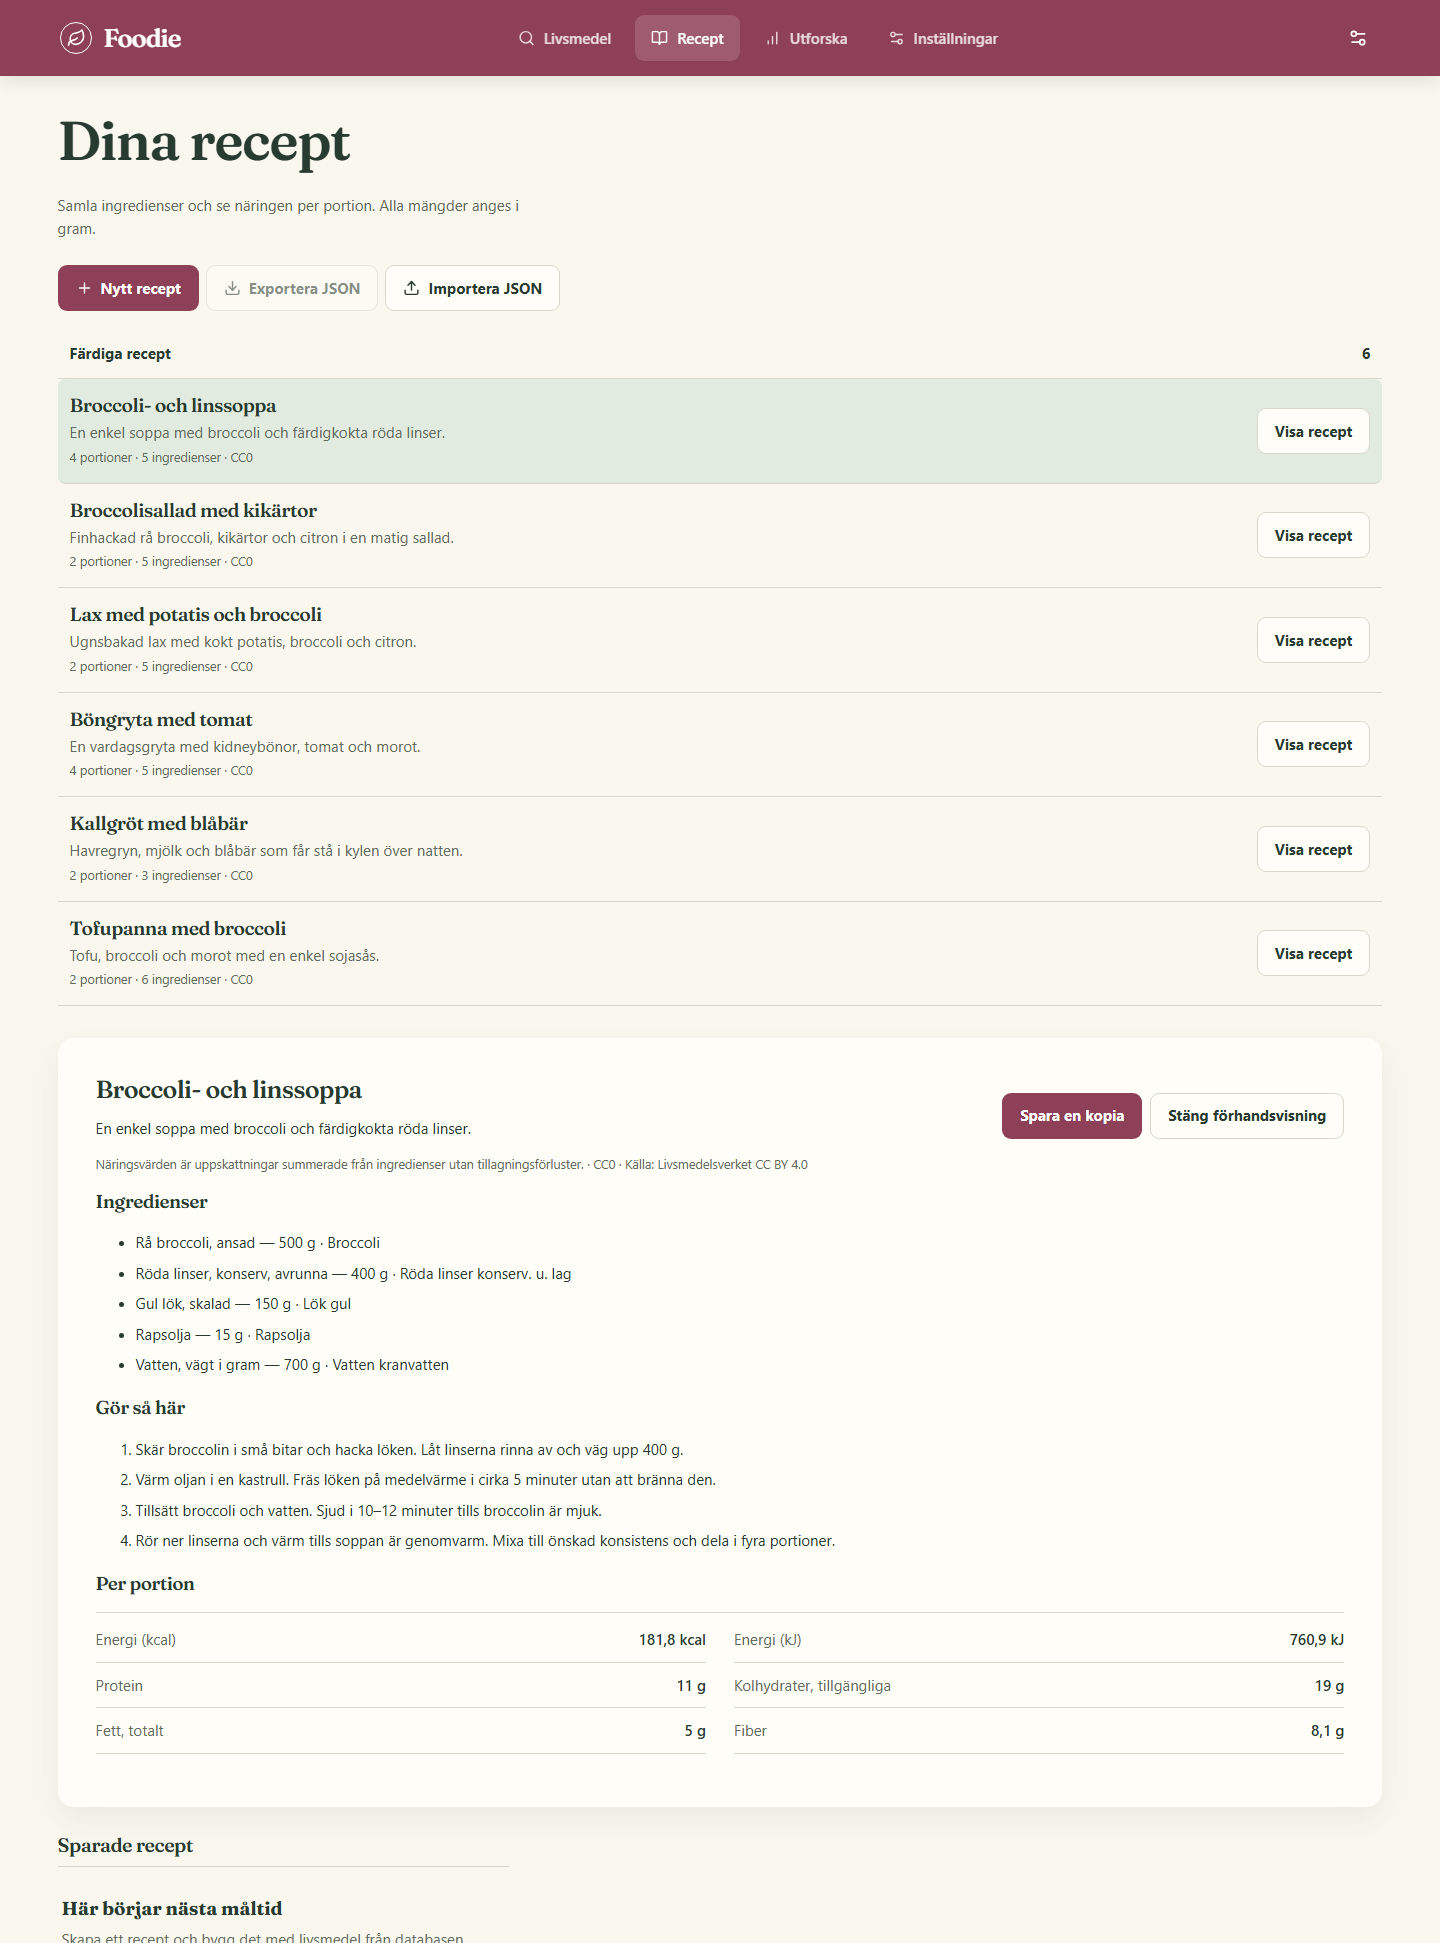
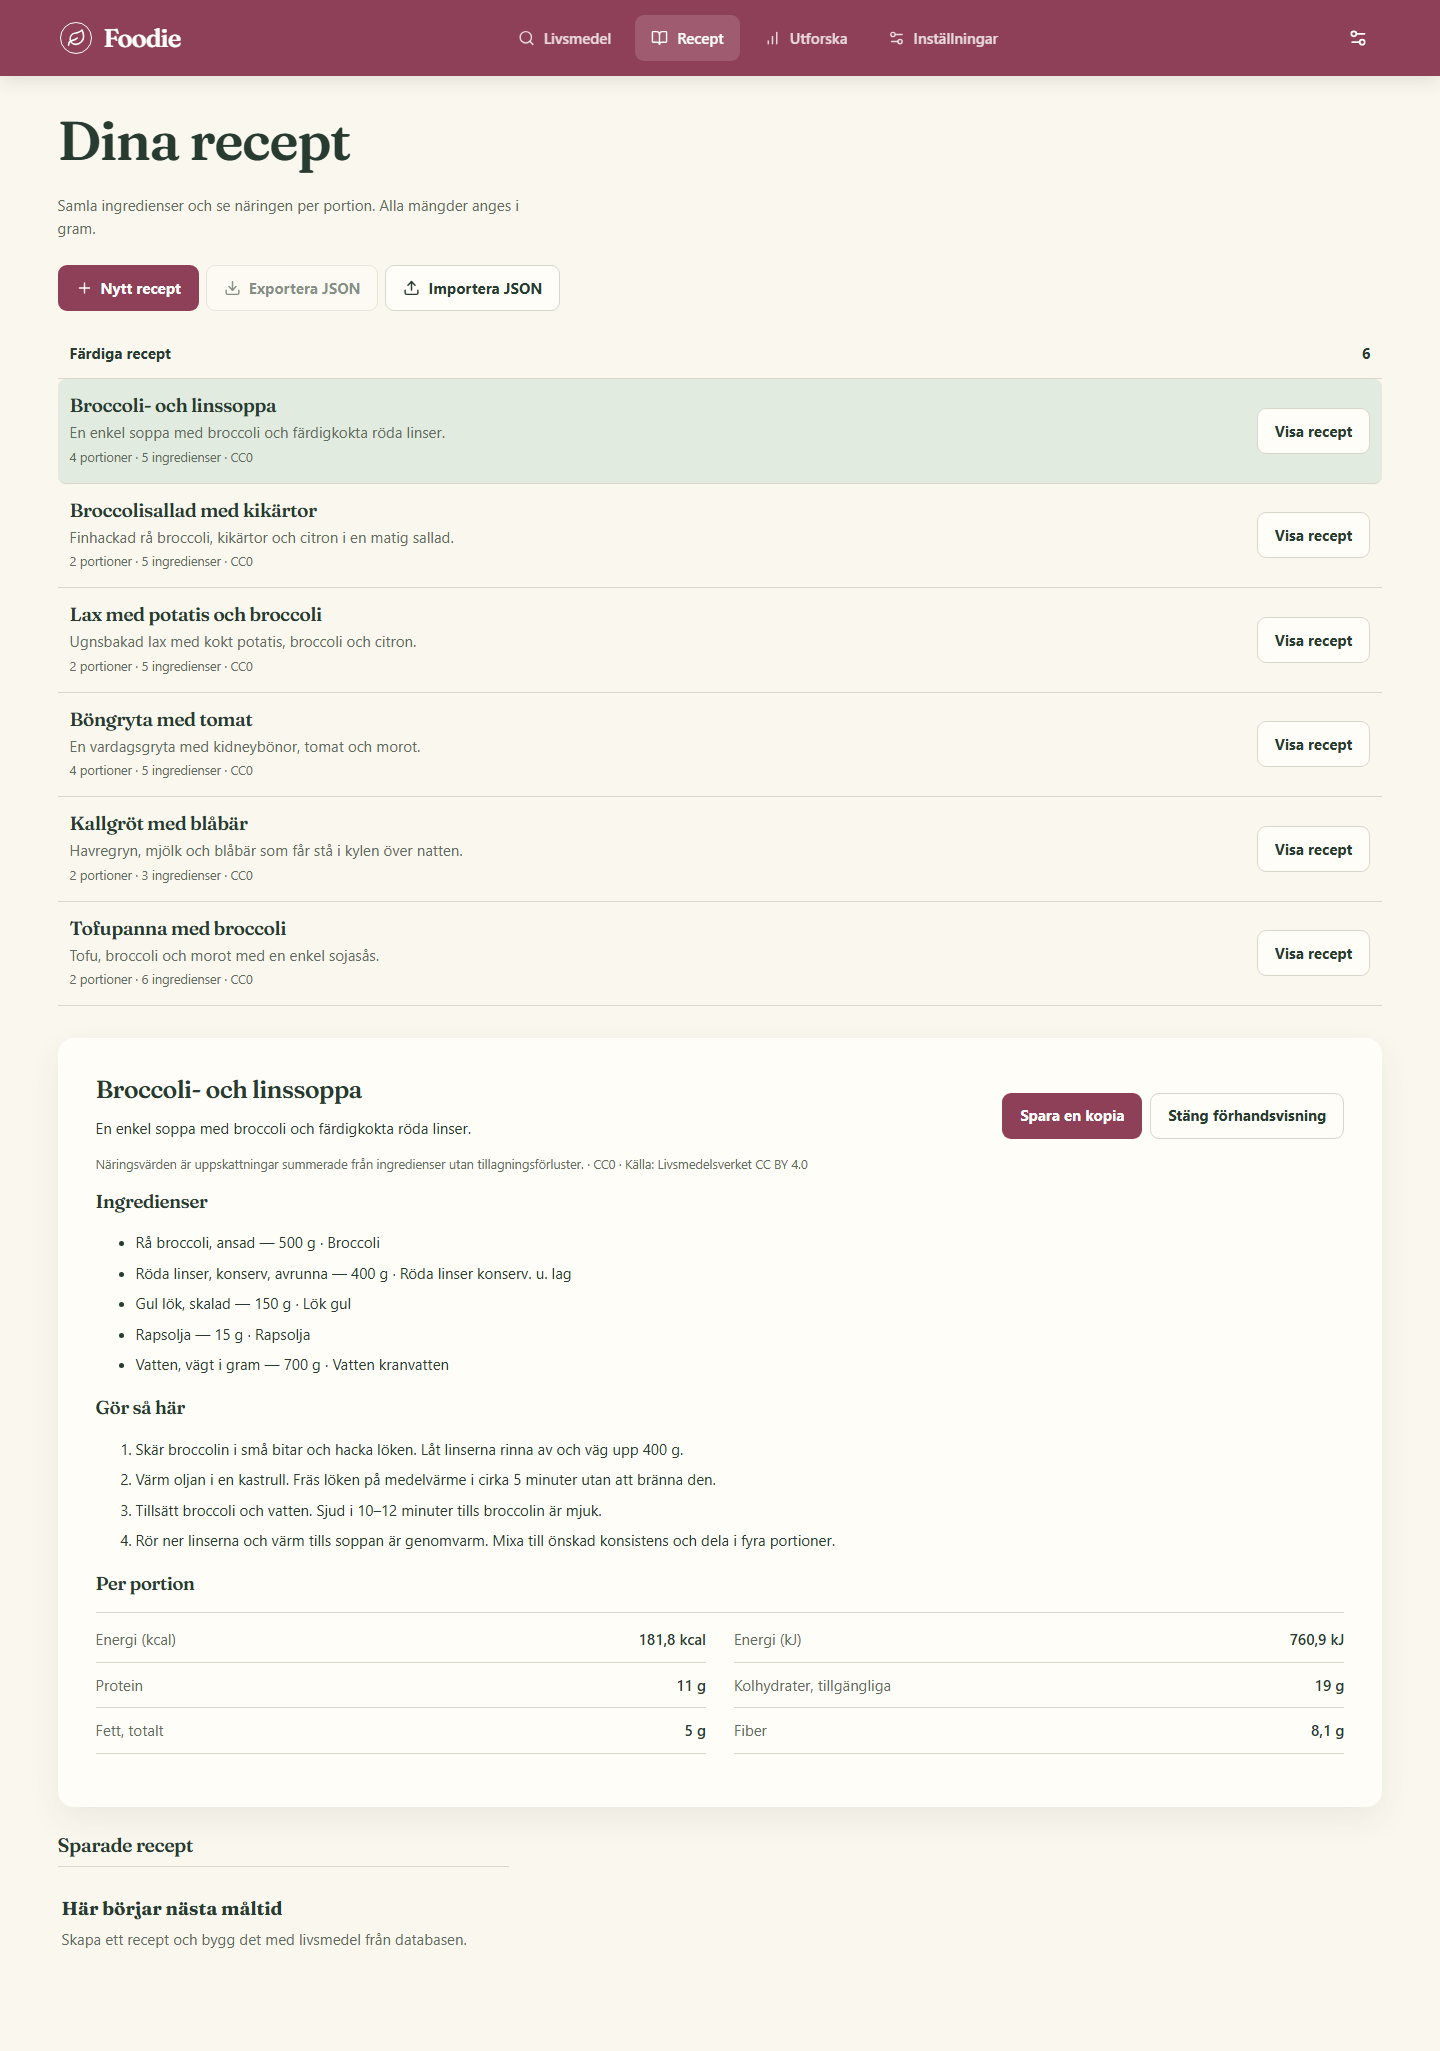
Preserve recipe route when jumping to saved recipes

diff --git a/src/App.tsx b/src/App.tsx
@@ -223,13 +223,13 @@ function Recipes({locale,msg,foods,dictionary,manifest,loadState,onRetry}:{local
   const previewDataUpdate=async(r:Recipe)=>{setBusy(true);setUpdatePreview(null);try{const items=await Promise.all(r.ingredients.map(async ingredient=>{const food=await foodRepository.getFood(ingredient.foodId);if(!food)return {ingredientId:ingredient.id,food:null,changes:[]};const changes=compareFoodData(ingredient.food,food);const newKeys=new Set(food.nutrients.map(n=>n.key));const removed=ingredient.food.nutrients.filter(n=>!newKeys.has(n.key)).map(n=>({key:n.key,before:n.value,after:null}));return {ingredientId:ingredient.id,food,changes:[...changes,...removed]}}));const hasUpdates=items.some(item=>!item.food||item.food.version!==r.ingredients.find(i=>i.id===item.ingredientId)?.food.version||item.changes.length>0);if(!hasUpdates){setNotice(msg('noChanges'));return}setUpdatePreview({recipeId:r.id,items})}catch{setNotice(msg('loadError'))}finally{setBusy(false)}};
   const applyDataUpdate=()=>{if(!updatePreview)return;const r=recipes.find(x=>x.id===updatePreview.recipeId);if(!r)return;const changed=new Map(updatePreview.items.filter(x=>x.food).map(x=>[x.ingredientId,x.food!]));const ingredients=r.ingredients.map(i=>changed.has(i.id)?{...i,food:changed.get(i.id)!}:i);persist({...r,ingredients,snapshotId:updatePreview.items.every(x=>x.food)?manifest?.snapshotId??r.snapshotId:r.snapshotId});setUpdatePreview(null)};
   return <main className="page"><div className="page-heading"><h1>{msg('recipeTitle')}</h1><p>{locale==='sv'?'Samla ingredienser och se näringen per portion. Alla mängder anges i gram.':'Combine ingredients and see nutrition per serving. All amounts use grams.'}</p></div>
-    <div className="recipe-actions"><button className="primary-button" onClick={create} disabled={!manifest}><Plus/>{msg('newRecipe')}</button><button className="secondary-button" onClick={doExport} disabled={!recipes.length}><Download/>{msg('export')}</button><label className="secondary-button import-file-label"><Upload/>{msg('import')}<input className="file-input" type="file" accept="application/json,.json" onChange={e=>{doImport(e.target.files?.[0]);e.currentTarget.value=''}}/></label>{recipes.length>0&&<a className="secondary-button recipe-jump" href="#my-recipes">{msg('savedRecipes')}</a>}</div>
+    <div className="recipe-actions"><button className="primary-button" onClick={create} disabled={!manifest}><Plus/>{msg('newRecipe')}</button><button className="secondary-button" onClick={doExport} disabled={!recipes.length}><Download/>{msg('export')}</button><label className="secondary-button import-file-label"><Upload/>{msg('import')}<input className="file-input" type="file" accept="application/json,.json" onChange={e=>{doImport(e.target.files?.[0]);e.currentTarget.value=''}}/></label>{recipes.length>0&&<button type="button" className="secondary-button recipe-jump" onClick={()=>{recipeLayoutRef.current?.scrollIntoView({block:'start'});recipeLayoutRef.current?.querySelector<HTMLElement>('.saved-recipes-heading')?.focus({preventScroll:true})}}>{msg('savedRecipes')}</button>}</div>
     <section className="starter-section"><details open={catalogueOpen} onToggle={e=>setCatalogueOpen(e.currentTarget.open)}><summary className="starter-catalogue-toggle"><span>{msg('starterRecipes')}</span><span>{starterRecipes.length}</span></summary>{loadState==='error'&&<div className="callout" role="alert">{msg('loadError')} <button className="secondary-button" onClick={onRetry}>{msg('retry')}</button></div>}<div className="starter-list">{starterRecipes.map(template=><article className={`starter-item ${starterPreview?.template.id===template.id?'active':''}`} key={`${template.id}-${template.revision}`}><div><h2>{template.title[locale]}</h2><p>{template.description[locale]}</p><small>{template.servings} {msg('servings').toLocaleLowerCase(locale)} · {template.ingredients.length} {msg('ingredients').toLocaleLowerCase(locale)} · CC0</small></div><button className="secondary-button" disabled={!manifest||busy} onClick={()=>void previewStarter(template)}>{msg('previewRecipe')}</button></article>)}</div></details></section>
     {starterPreview&&<section ref={starterPreviewRef} className="starter-preview detail-panel" aria-labelledby="starter-preview-title"><div className="recipe-head"><div><h2 id="starter-preview-title" tabIndex={-1}>{starterPreview.template.title[locale]}</h2><p>{starterPreview.template.description[locale]}</p></div><div className="starter-preview-actions"><button className="primary-button" disabled={busy} onClick={()=>void useStarter()}>{msg('previewSave')}</button><button className="secondary-button" disabled={busy} onClick={()=>setStarterPreview(null)}>{msg('closePreview')}</button></div></div><p className="small">{msg('estimatePreview')} · CC0 · {msg('source')}: Livsmedelsverket CC BY 4.0</p><h3>{msg('ingredients')}</h3><ul>{starterPreview.recipe.ingredients.map((ingredient,i)=><li key={ingredient.id}>{starterPreview.template.ingredients[i]?.note[locale]} — {ingredient.grams} g · {ingredient.food.names[locale]}</li>)}</ul><h3>{msg('instructions')}</h3><ol>{starterPreview.template.instructions[locale].map((line,i)=><li key={i}>{line}</li>)}</ol><h3>{msg('perServing')}</h3><dl className="key-nutrients">{['ENERC|kcal|per100g','ENERC|kJ|per100g','PROT|g|per100g','CHO|g|per100g','FAT|g|per100g','FIBT|g|per100g'].map(key=>{const n=calculateRecipe(starterPreview.recipe,'serving').find(value=>value.key===key);const def=dictionary.find(d=>d.key===key);return n?<div className="nutrient-row" key={key}><dt>{def?.names[locale]??key}</dt><dd>{format(n.value,locale)} {def?.unit??''}{!n.complete&&<small> · {msg('incomplete')}</small>}</dd></div>:null})}</dl></section>}
     {notice&&<p role="status" className="status-line">{notice}</p>}{busy&&<p role="status" className="status-line"><i className="spinner"/>{busyText|| (locale==='sv'?'Sparar…':'Saving…')}</p>}
     {undoRecipe&&<p className="callout">{locale==='sv'?'Recept borttaget.':'Recipe deleted.'} <button className="secondary-button" onClick={undoDelete}>{msg('undo')}</button></p>}
     {load==='loading'&&<p className="status-line"><i className="spinner"/>{msg('loading')}</p>}{load==='error'&&<div className="callout" role="alert">{msg('loadError')} <button className="secondary-button" onClick={loadRecipes}>{msg('retry')}</button></div>}
-    {load==='ready'&&<div id="my-recipes" ref={recipeLayoutRef} className="recipe-layout"><aside><h2 className="saved-recipes-heading">{msg('savedRecipes')}</h2><div className="recipe-list">{recipes.map(r=><button className={`recipe-item ${activeId===r.id?'active':''}`} key={r.id} onClick={()=>setActiveId(r.id)}><BookOpen/><span>{r.title||msg('newRecipe')}<small>{r.ingredients.length} {msg('ingredients').toLocaleLowerCase(locale)}</small></span><ChevronRight/></button>)}</div>{!recipes.length&&<div className="empty-state"><strong>{msg('emptyRecipes')}</strong>{msg('emptyRecipesHint')}</div>}</aside>
+    {load==='ready'&&<div id="my-recipes" ref={recipeLayoutRef} className="recipe-layout"><aside><h2 className="saved-recipes-heading" tabIndex={-1}>{msg('savedRecipes')}</h2><div className="recipe-list">{recipes.map(r=><button className={`recipe-item ${activeId===r.id?'active':''}`} key={r.id} onClick={()=>setActiveId(r.id)}><BookOpen/><span>{r.title||msg('newRecipe')}<small>{r.ingredients.length} {msg('ingredients').toLocaleLowerCase(locale)}</small></span><ChevronRight/></button>)}</div>{!recipes.length&&<div className="empty-state"><strong>{msg('emptyRecipes')}</strong>{msg('emptyRecipesHint')}</div>}</aside>
       {activeRecipe&&<RecipeEditor recipe={activeRecipe} locale={locale} msg={msg} dictionary={dictionary} onChange={persist} onRemove={()=>removeRecipe(activeRecipe)} onDuplicate={()=>duplicate(activeRecipe)} adding={adding} setAdding={setAdding} query={draftQuery} setQuery={setDraftQuery} matches={searchFoods(foods,draftQuery,locale)} onAdd={addFood} onPreviewDataUpdate={()=>previewDataUpdate(activeRecipe)} updatePreview={updatePreview?.recipeId===activeRecipe.id?updatePreview:null} onApplyDataUpdate={applyDataUpdate} onCancelDataUpdate={()=>setUpdatePreview(null)}/>}
     </div>}
     {importPreview&&<section className="import-review" aria-labelledby="import-heading"><h2 id="import-heading">{msg('importPreview')}</h2><p>{importPreview.length} {locale==='sv'?'recept hittades. Välj hur de ska läggas till.':'recipes found. Choose how to add them.'}</p><ul>{importPreview.slice(0,5).map(r=><li key={r.id}>{r.title||msg('newRecipe')} · {r.ingredients.length} {msg('ingredients').toLocaleLowerCase(locale)}</li>)}</ul><div className="choice-row"><button className="primary-button" onClick={()=>chooseImport('copy')}>{msg('copy')}</button><button className="secondary-button" onClick={()=>chooseImport('merge')}>{msg('merge')}</button><button className="danger-button" onClick={()=>chooseImport('replace')}>{msg('replace')}</button><button className="secondary-button" onClick={()=>setImportPreview(null)}>{msg('cancel')}</button></div></section>}

diff --git a/e2e/discovery.spec.ts b/e2e/discovery.spec.ts
@@ -67,6 +67,9 @@ test('starter recipe preview saves instructions and nutrient snapshot for reload
   await page.getByRole('button', { name: 'Visa recept' }).first().click();
   await page.getByRole('button', { name: 'Spara en kopia' }).click();
   await expect(page.locator('.recipe-item')).toHaveCount(2);
+  await page.getByRole('button', { name: 'Sparade recept', exact: true }).click();
+  await expect.poll(() => page.evaluate(() => location.hash)).toBe('#/recipes');
+  await expect.poll(() => page.evaluate(() => (document.activeElement as HTMLElement)?.textContent === 'Sparade recept')).toBe(true);
   await page.reload();
   await expect(page.getByRole('heading', { name: 'Gör så här' })).toBeVisible();
   const download = page.waitForEvent('download');

diff --git a/.impeccable/review/discovery/design-documentation.md b/.impeccable/review/discovery/design-documentation.md
@@ -16,7 +16,7 @@ This is a documentation consistency finding, not the independent finish-review v
 | Nutrient explorer (`#/discover`) | A restrained page with a 1000px maximum width. A labelled native select and existing pressed-choice buttons select nutrient and basis. Controls stack at 680px. A semantic three-column table presents rank, linked food with metadata, and right-aligned tabular amounts with explicit comparison units. Coverage, source and exclusions are explained above the table. At 390px row padding and rank width tighten; names and units wrap. |
 | Starter catalogue | Six original bilingual templates use separated editorial rows, secondary preview actions and the existing botanical active surface. A native `details` element controls the catalogue; its summary includes the template count. Mobile rows stack their content and action. This is published template content, visually distinct from the saved local library. |
 | Starter preview | The existing reading-panel treatment contains ingredients, ordered instructions and per-serving estimates, with CC0 template and CC BY food-data attribution. Save a copy and Close preview stay in a dedicated wrapping action group; at 680px they share available width and wrap without squeezing the title. The preview remains visible on mobile despite the general detail-panel hiding rule. |
-| Preview and editor attention | Opening a preview scrolls its section into view and focuses the title (`tabIndex=-1`). Saving a copy closes the preview, collapses the catalogue, and scrolls/focuses the saved recipe editor. Preview and saved-library anchors use a 96px scroll margin. Saved recipes also have a direct jump link. These behaviours are source-confirmed; still captures cannot prove focus movement. |
+| Preview and editor attention | Opening a preview scrolls its section into view and focuses the title (`tabIndex=-1`). Saving a copy closes the preview, collapses the catalogue, and scrolls/focuses the saved recipe editor. Preview and saved-library anchors use a 96px scroll margin. Saved recipes also have a direct jump button that preserves the hash route and focuses the library heading. These behaviours are source-confirmed; still captures cannot prove focus movement. |
 | Saved instructions | Ordered instructions sit above ingredients within the existing editor, separated with a fine rule and followed by the estimation/provenance note. Local-copy text is user-owned and does not change when the interface language changes. |
 | Four-item navigation | The new Explore route uses the existing active navigation treatment and `aria-current`. At 360px the brand and full-width navigation occupy two rows with evenly spaced 44px links; the supported minimum remains 320px. Existing small-screen label wrapping and icon hiding are retained. |
 
@@ -30,7 +30,7 @@ Visually inspected all eight supplied PNGs in this directory:
 - `broccoli-mobile.png`: threshold disclosures, provenance and continuity with the food detail/chart.
 - Refreshed `starter-desktop.png`, `starter-mobile.png`, `starter-english-dark-320.png`, `saved-desktop.png`: catalogue, wrapping preview actions, separate saved library and editor instructions.
 
-The explorer captures are unusually tall and their overview rendering is scaled down; source and recorded measurements support the narrow-layout assessment. `measurements.json` records eight captures at 1440×1000, 390×844 and 320×740 with no recorded overflow or browser errors. `measurements-recipes.json` supersedes its four recipe entries after the corrections (captured at 14:41:15 UTC rather than 14:36:33 UTC), likewise recording no overflow or browser errors. These are supplied Chromium 156.0.8078.4 measurements, not a fresh run or evidence for other engines.
+The explorer captures are unusually tall and their overview rendering is scaled down; source and recorded measurements support the narrow-layout assessment. `measurements.json` records eight captures at 1440×1000, 390×844 and 320×740 with no recorded overflow or browser errors. `measurements-recipes.json` supersedes its four recipe entries after the corrections, likewise recording no overflow or browser errors. These are supplied Chromium 156.0.8078.4 measurements, not a fresh run or evidence for other engines.
 
 ## Advisory drift retained
 

diff --git a/.impeccable/review/discovery/finish-review.md b/.impeccable/review/discovery/finish-review.md
@@ -17,3 +17,5 @@ One correction batch added preview heading focus/scroll, early recipe actions an
 - The mechanical detector ran once. Its output contained only advisory documented-system drift (mainly existing small typography steps, radius/shadow values, plus compact navigation/highlight text). No new palette, font family or visual-world replacement was introduced.
 
 This is local verification evidence. The GitHub Actions run and live deployment are checked separately after push.
+
+A subsequent routing check found that the saved-library jump must not use a fragment anchor with the hash router. It now uses a button that scrolls/focuses the heading without changing `#/recipes`. Both browser engines passed the extended recipe-copy scenario, and the reviewer reconfirmed **ship** for all three scoped findings against refreshed recipe evidence. The documentation was rechecked; design tokens and component conventions remain unchanged.
